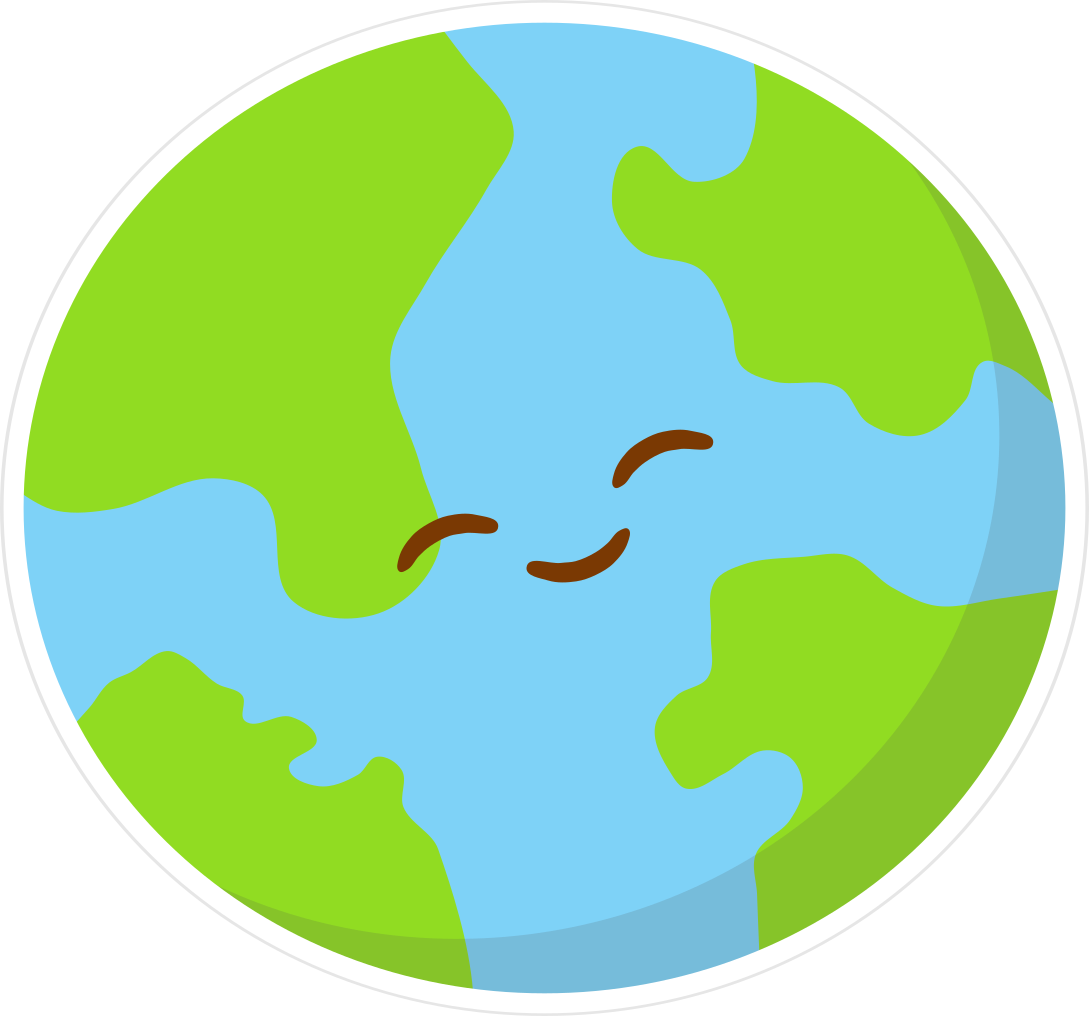
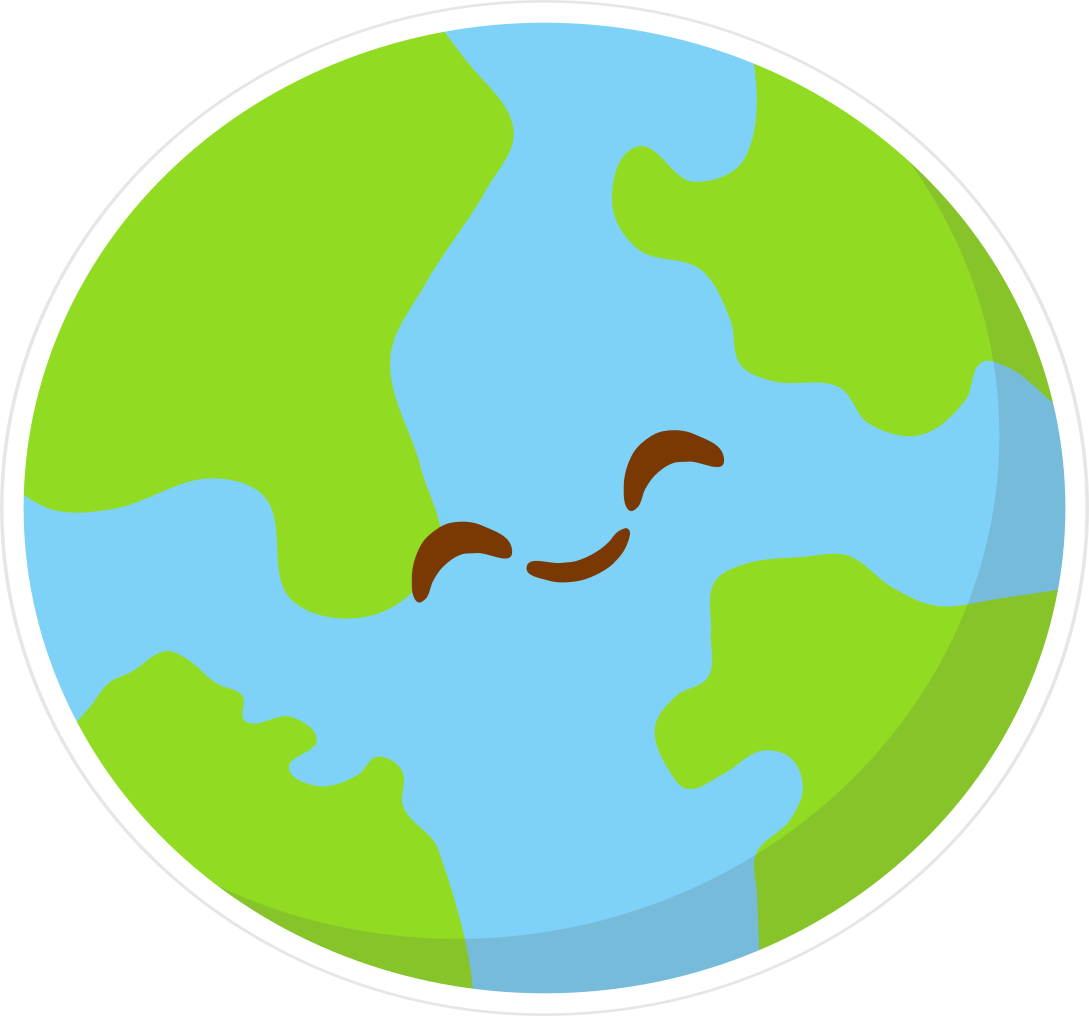
Add onBinHit() method to Earth class

Changed region(s): [[0.3434, 0.4882, 0.4683, 0.6102], [0.562, 0.4272, 0.6869, 0.5187]]

diff --git a/lib/earth.dart b/lib/earth.dart
@@ -93,6 +93,12 @@ class Earth extends CircleComponent
     earthSprite.sprite = await Sprite.load(path);
   }
 
+  Future<void> onBinHit() async {
+    await changeSprite('happy_earth.png');
+    await Future.delayed(const Duration(milliseconds: 500));
+    await changeSprite('earth.png');
+  }
+
   int hitCount = 0;
   @override
   void onCollisionStart(

diff --git a/lib/game.dart b/lib/game.dart
@@ -245,6 +245,7 @@ class MyGame extends FlameGame
   void onBinHit() {
     score += 1;
     scoreTextComponent.text = 'Points: $score';
+    earth.onBinHit();
     // FlameAudio.play('pla_s.wav');
   }
 
